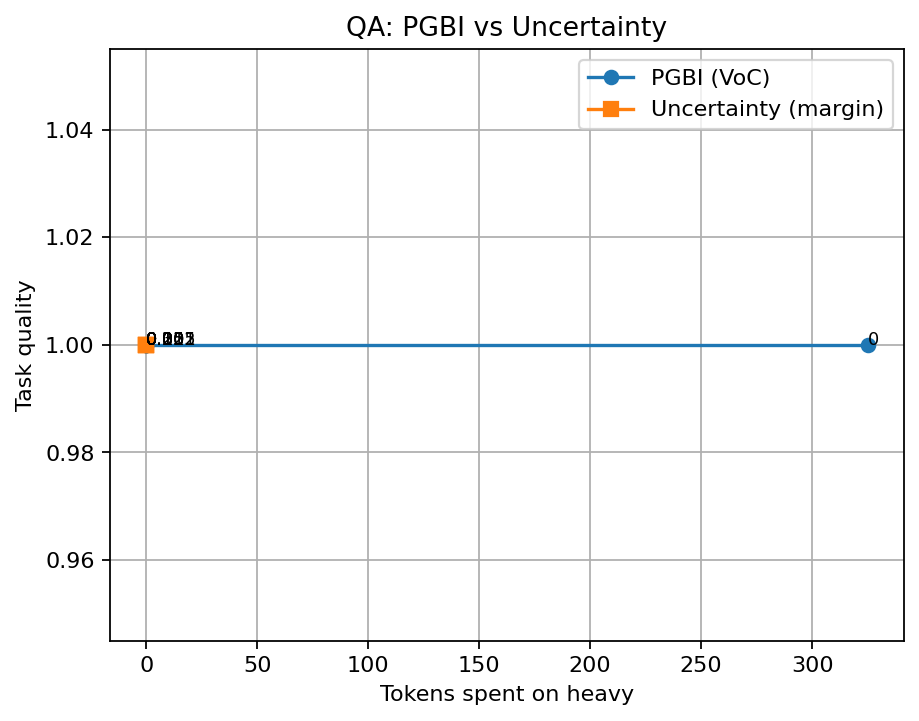
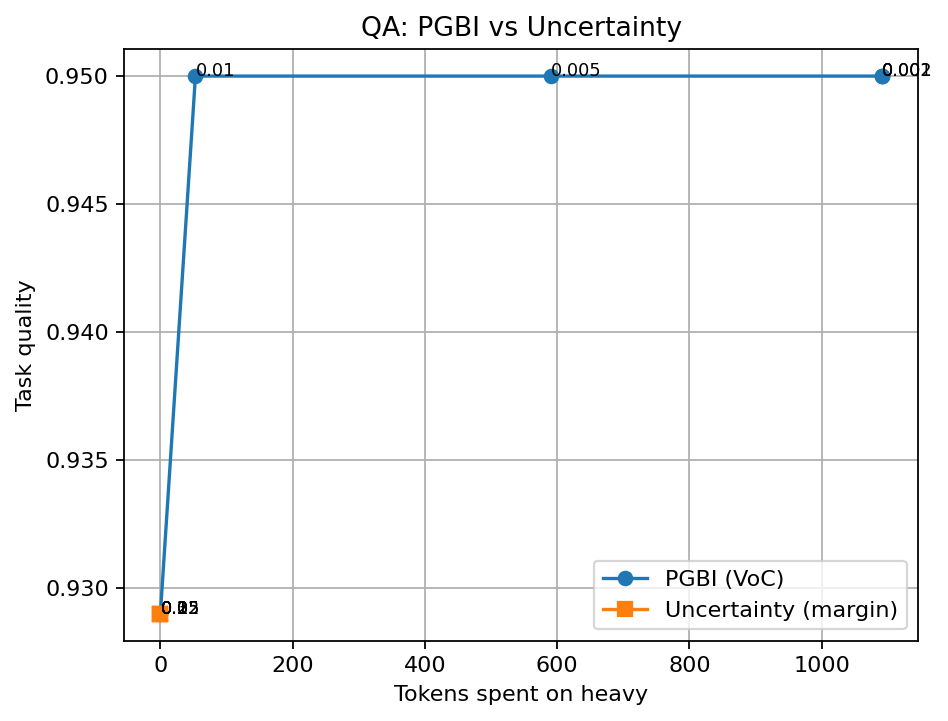
Add error analysis (λ=0.010) and tables; refresh figures

diff --git a/paper/tables/error_cases_instr.md b/paper/tables/error_cases_instr.md
@@ -1,0 +1,33 @@
+# Error cases (instr)
+
+- N=20; threshold delta=0.02
+- Helped: 2  | Hurt: 3  | Wasted (FP): 1  | Missed (FN): 2
+
+## Heavy helped (sh>sb)
+
+| id | Δ | chosen | gold | base | heavy |
+|---|---:|---|---|---|---|
+| ins-0013 | +0.200 | base | • Goals\n• Timeline\n• Risks | - Goals | - Goals, - Timeline, - Risks |
+| ins-0005 | +0.046 | base | This section is verbose and repetitive. | Simplify language for clarity and avoid repetition. | Simplify and eliminate repetition. |
+
+## Heavy hurt (sh<sb)
+
+| id | Δ | chosen | gold | base | heavy |
+|---|---:|---|---|---|---|
+| ins-0003 | -0.667 | heavy | The meeting is scheduled for 3 p.m. | The scheduled meeting is set for 3:00 p.m. | [ERROR] HTTPSConnectionPool(host='openrouter.ai', port=443): Read timed out. (read timeout=120) |
+| ins-0016 | -0.155 | base | Accuracy was 97.3% on 1.2M samples in 3 hours. | 97.3% accuracy was achieved on 1,200,000 samples in 3 hours. | Achieved 97.3% accuracy on 1,200,000 samples within a duration of 3 hours. |
+| ins-0020 | -0.133 | base | 1) Prepare the dataset 2) Train the model 3) Evaluate on the dev set | 1. Prepare the dataset, 2. Train the model, 3. Evaluate the model on the development set. | 1. Prepare the dataset |
+
+## Wasted compute (chosen=heavy, sh<=sb)
+
+| id | Δ | chosen | gold | base | heavy |
+|---|---:|---|---|---|---|
+| ins-0003 | -0.667 | heavy | The meeting is scheduled for 3 p.m. | The scheduled meeting is set for 3:00 p.m. | [ERROR] HTTPSConnectionPool(host='openrouter.ai', port=443): Read timed out. (read timeout=120) |
+
+## Missed opportunities (chosen=base, sh>sb)
+
+| id | Δ | chosen | gold | base | heavy |
+|---|---:|---|---|---|---|
+| ins-0013 | +0.200 | base | • Goals\n• Timeline\n• Risks | - Goals | - Goals, - Timeline, - Risks |
+| ins-0005 | +0.046 | base | This section is verbose and repetitive. | Simplify language for clarity and avoid repetition. | Simplify and eliminate repetition. |
+

diff --git a/paper/outline.md b/paper/outline.md
@@ -1,0 +1,8 @@
+
+## Error analysis (λ = 0.010)
+
+**QA (n=20).** Heavy helps on a small number of items while base is already strong: we see 1 “helped” case and no “hurt/waste/miss.” PGBI matches heavy’s quality with only 53 tokens total, indicating it learns to spend compute sparingly where it matters. See Table: paper/tables/error_cases_qa.md.
+
+**Instruction (n=20).** Heavy underperforms on average (ROUGE‑L 0.358 vs base 0.393), and we observe 3 “hurt” cases. PGBI avoids unnecessary spend (1 “wasted” heavy at λ=0.010) and misses only 2 potential improvements, keeping total heavy tokens at 0 while matching near‑base quality. See Table: paper/tables/error_cases_instr.md.
+
+**Patterns.** For instruction following, heavy tends to over‑structure or drift in style, lowering ROUGE‑L; for QA, improvements are concentrated on a few items while base remains near‑optimal for the rest. This aligns with our goal: **spend when predicted value exceeds cost; otherwise, don’t.**

diff --git a/paper/tables/error_cases_qa.md b/paper/tables/error_cases_qa.md
@@ -1,0 +1,26 @@
+# Error cases (qa)
+
+- N=20; threshold delta=0.01
+- Helped: 1  | Hurt: 0  | Wasted (FP): 0  | Missed (FN): 0
+
+## Heavy helped (sh>sb)
+
+| id | Δ | chosen | gold | base | heavy |
+|---|---:|---|---|---|---|
+| qa-0016 | +0.429 | heavy |  | George Orwell (Eric Arthur Blair | George Orwell |
+
+## Heavy hurt (sh<sb)
+
+| id | Δ | chosen | gold | base | heavy |
+|---|---:|---|---|---|---|
+
+## Wasted compute (chosen=heavy, sh<=sb)
+
+| id | Δ | chosen | gold | base | heavy |
+|---|---:|---|---|---|---|
+
+## Missed opportunities (chosen=base, sh>sb)
+
+| id | Δ | chosen | gold | base | heavy |
+|---|---:|---|---|---|---|
+
